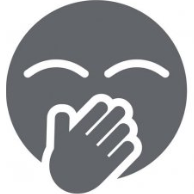
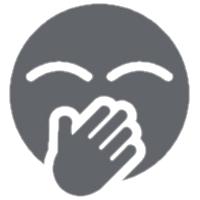
Добавлен лейбл на окно регистрации/аутентификации.

diff --git a/src/components/AuthenticationAndRegistrationForm/AuthenticationAndRegistrationForm.js b/src/components/AuthenticationAndRegistrationForm/AuthenticationAndRegistrationForm.js
@@ -5,6 +5,7 @@ import { InputField } from '../InputField/InputField'
 
 import './AuthenticationAndRegistrationForm.sass'
 import '../SubmitButton/SubmitButton.sass'
+import './__Label/AuthenticationAndRegistrationForm-Label.sass'
 
 class AuthenticationAndRegistrationForm extends React.Component {
   state = {
@@ -79,6 +80,14 @@ class AuthenticationAndRegistrationForm extends React.Component {
     )
   }
 
+  renderLabel = () => {
+    return (
+      <div className="authenticationAndRegistrationForm-Label" align="center">
+        <img src={require("../../resources/Whisper.png")}></img>
+      </div>
+    )
+  }
+
   renderUserNameInputField = () => {
     if (this.state.isRegistrationMode) {
       return (
@@ -116,6 +125,7 @@ class AuthenticationAndRegistrationForm extends React.Component {
         <input type="checkbox" name="changeMode" onClick={this.changeMode} />
         <span>Registration</span>
         <form onSubmit={this.onSubmit}>
+          {this.renderLabel()}
           <div align="center">{this.renderHeader()}</div>
           {this.renderUserNameInputField()}
           <InputField

diff --git a/src/components/AuthenticationAndRegistrationForm/__Label/AuthenticationAndRegistrationForm-Label.sass b/src/components/AuthenticationAndRegistrationForm/__Label/AuthenticationAndRegistrationForm-Label.sass
@@ -1,0 +1,5 @@
+.authenticationAndRegistrationForm-Label
+    >img
+        margin-top: 25px
+        height: 80%
+        width: 80%
